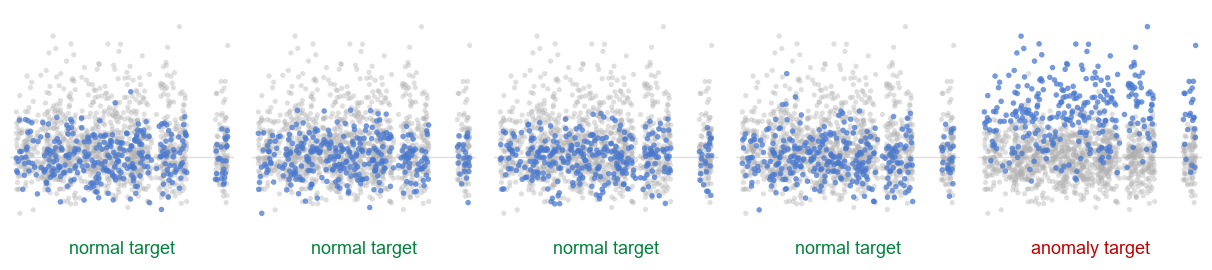
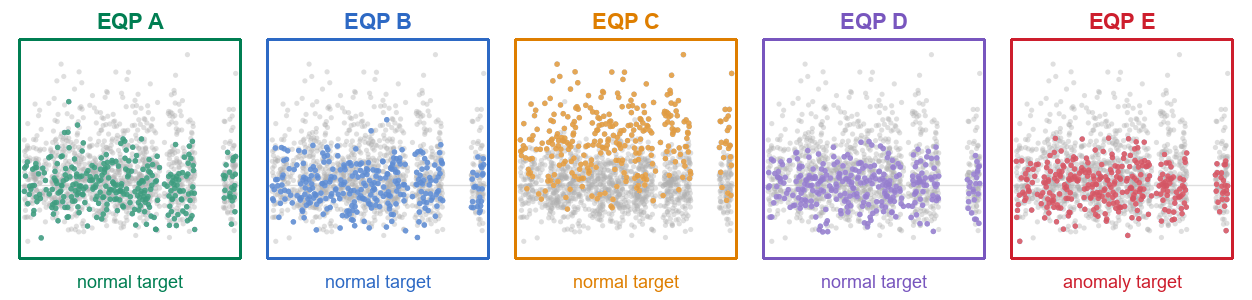
Label logical member EQP examples

diff --git a/scripts/generate_strict_one_factor_report.py b/scripts/generate_strict_one_factor_report.py
@@ -939,6 +939,8 @@ def write_markdown(
         "",
         "같은 context chart를 member별 target 이미지로 확장합니다. 불량 member를 target으로 만든 이미지만 anomaly class이고, 양호 member를 target으로 만든 이미지는 normal class입니다.",
         "",
+        "아래 예시는 같은 chart `ch_09100`을 `EQP A`, `EQP B`, `EQP C`, `EQP D`, `EQP E` target 이미지로 펼친 것입니다. 각 EQP target은 서로 다른 색으로 표시하고, 회색 점들은 같은 context 안의 비교 fleet입니다. 이 예시에서는 `EQP E`만 anomaly target이고 `EQP A-D`는 normal target입니다.",
+        "",
         "![logical member target examples](logical_member_targets_ch09100.png)",
         "",
         "즉 family 전체 이상 감지가 아니라, highlight 된 member 단위로 label을 부여하는 학습 예시입니다.",

diff --git a/docs/summary.md b/docs/summary.md
@@ -86,6 +86,8 @@ _아직 one-factor evidence 단계입니다. round-2 종료 후 joint combo vali
 
 같은 context chart를 member별 target 이미지로 확장합니다. 불량 member를 target으로 만든 이미지만 anomaly class이고, 양호 member를 target으로 만든 이미지는 normal class입니다.
 
+아래 예시는 같은 chart `ch_09100`을 `EQP A`, `EQP B`, `EQP C`, `EQP D`, `EQP E` target 이미지로 펼친 것입니다. 각 EQP target은 서로 다른 색으로 표시하고, 회색 점들은 같은 context 안의 비교 fleet입니다. 이 예시에서는 `EQP E`만 anomaly target이고 `EQP A-D`는 normal target입니다.
+
 ![logical member target examples](logical_member_targets_ch09100.png)
 
 즉 family 전체 이상 감지가 아니라, highlight 된 member 단위로 label을 부여하는 학습 예시입니다.
